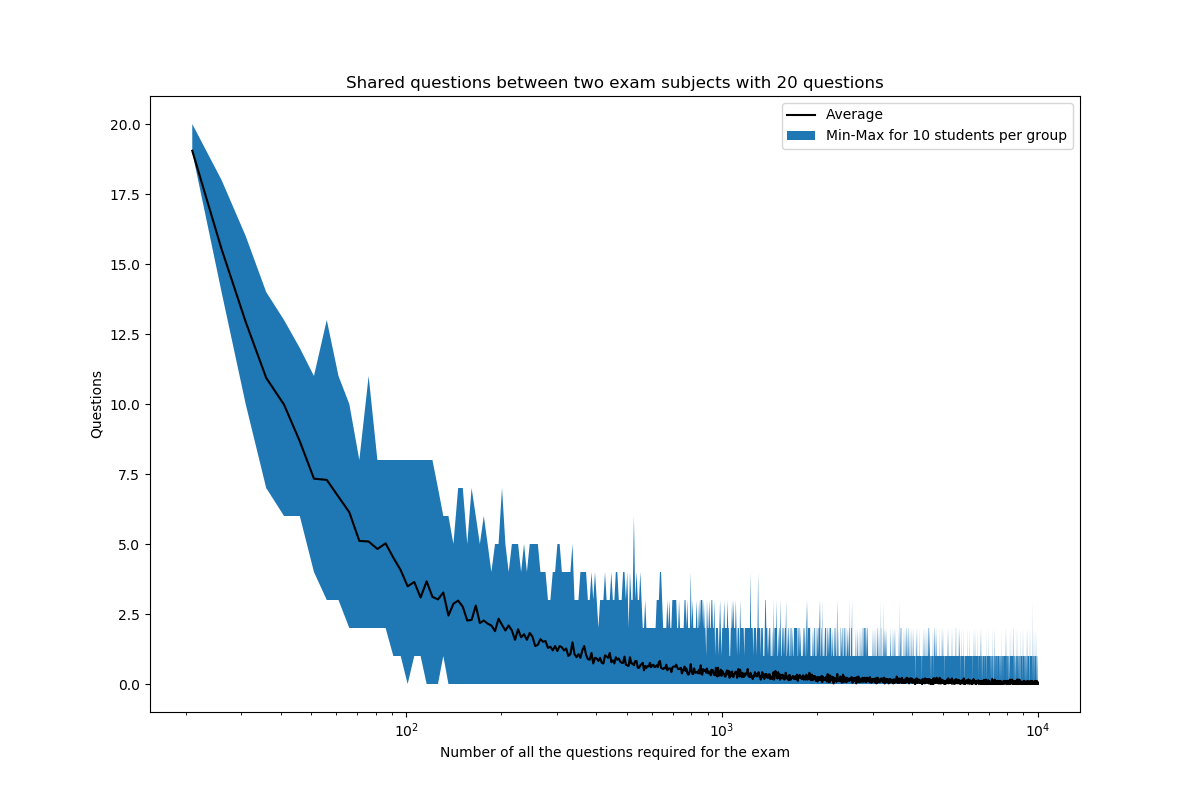
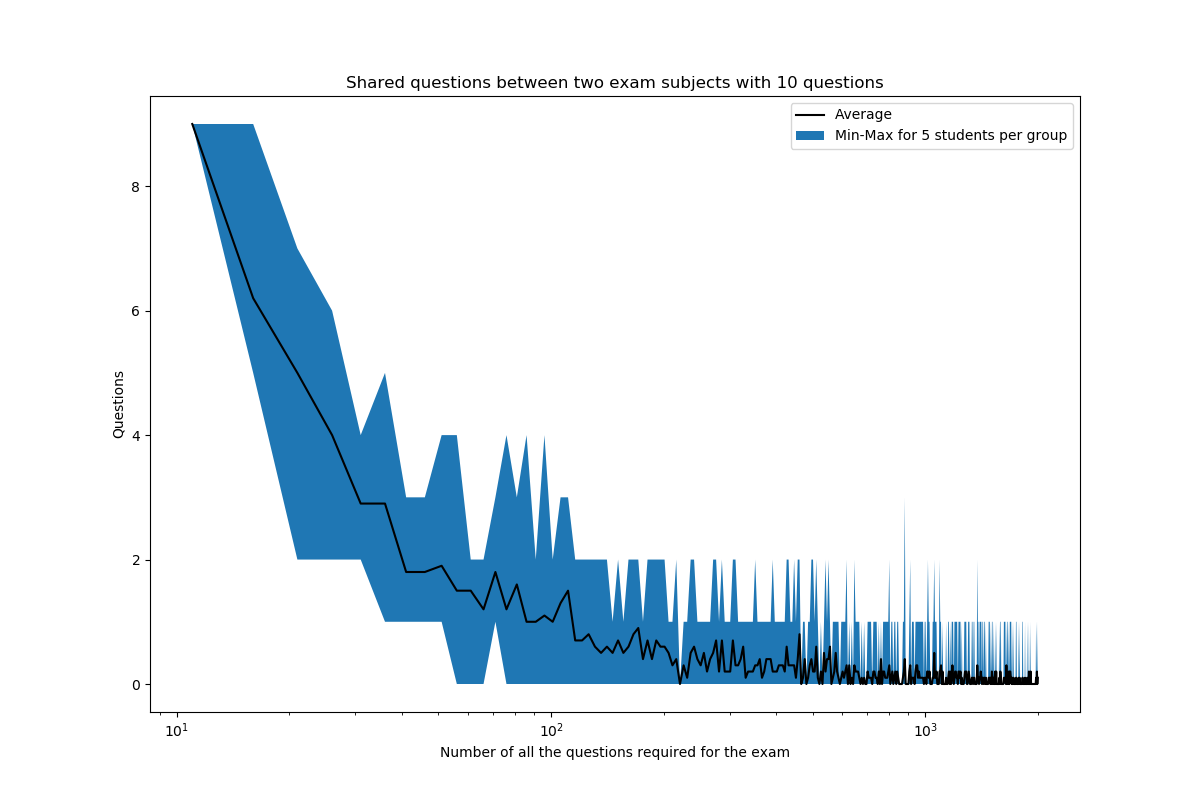
Cosmetic changes

diff --git a/scriptSimus.py b/scriptSimus.py
@@ -1,72 +1,105 @@
 import numpy as np
 import matplotlib.pyplot as plt
 
-# Fixed Parameters
-nbQuestionsPerStudent = 20
-nbStudents = 500
-nbStudentsPerGroup = 10
+#########################################
+#                                       #
+# Simulations and Distances computation #
+#                                       #
+#########################################
 
-nbQuestions = np.arange(nbQuestionsPerStudent+1,nbStudents*nbQuestionsPerStudent,5)
+def mainSimulation(params):
+    (nbQuestionsPerStudent,nbStudents,nbStudentsPerGroup)=params
+    nbQuestions = np.arange(nbQuestionsPerStudent+1,nbStudents*nbQuestionsPerStudent,5)
 
-meanPWDistances=np.zeros((len(nbQuestions),))
-minmaxPWDistances=np.zeros((len(nbQuestions),2))
-meanDistances=np.zeros((len(nbQuestions),))
-minmaxDistances=np.zeros((len(nbQuestions),2))
-cpt=0
-for n in nbQuestions:
-    # Generate nbQuestions random partitions of the set {0,n}
-    randperm = np.zeros((nbQuestionsPerStudent,nbStudentsPerGroup))
-    for i in range(nbStudentsPerGroup):
-        randperm[:,i]=np.random.permutation(n)[0:nbQuestionsPerStudent]
-    # Compute all pairwise distances between partitions (edit distance)
-    distance=[]
-    unionOfIntersect=[]
-    for i in range(nbStudentsPerGroup):
-        for j in range(nbStudentsPerGroup):
-            if i<j:
-                unionOfIntersect.append(np.intersect1d(randperm[:,i],randperm[:,j]))
-                dist=len(np.intersect1d(randperm[:,i],randperm[:,j]))
-                distance.append(dist)
-    meanPWDistances[cpt]=np.mean(np.array(distance))
-    minmaxPWDistances[cpt,0]=np.min(np.array(distance))
-    minmaxPWDistances[cpt,1]=np.max(np.array(distance))
-    # Union of all questions => diff between individual questions and union
-    union=np.unique(randperm.flatten())
-    distance=[]
-    unionOfIntersect=np.unique(np.concatenate(unionOfIntersect))
-    for i in range(nbStudentsPerGroup):
-        dist=len(np.setdiff1d(randperm[:,i],unionOfIntersect))
-        distance.append(dist)
-    meanDistances[cpt]=np.mean(np.array(distance))
-    minmaxDistances[cpt,0]=np.min(np.array(distance))
-    minmaxDistances[cpt,1]=np.max(np.array(distance))
-    cpt=cpt+1
-    print(n)
+    meanPWDistances=np.zeros((len(nbQuestions),))
+    minmaxPWDistances=np.zeros((len(nbQuestions),2))
+    meanDistances=np.zeros((len(nbQuestions),))
+    minmaxDistances=np.zeros((len(nbQuestions),2))
+    cpt=0
+    for n in nbQuestions:
 
+        # Generate nbQuestions random partitions of the set {0,n}
+        randperm = np.zeros((nbQuestionsPerStudent,nbStudentsPerGroup))
+        for i in range(nbStudentsPerGroup):
+            randperm[:,i]=np.random.permutation(n)[0:nbQuestionsPerStudent]
 
-plt.figure(figsize=(12,8))
-plt.semilogx(nbQuestions,meanPWDistances,'k-')
-plt.fill_between(nbQuestions,minmaxPWDistances[:,0],minmaxPWDistances[:,1])
-plt.xlabel('Number of all the questions required for the exam')
-plt.ylabel('Questions')
-plt.legend(['Average','Min-Max for '+str(nbStudentsPerGroup)+' students per group'])
-plt.title('Shared questions between two exam subjects with ' + str(nbQuestionsPerStudent) + ' questions')
+        # Compute all pairwise distances between partitions (edit distance)
+        distance=[]
+        unionOfIntersect=[]
+        for i in range(nbStudentsPerGroup):
+            for j in range(nbStudentsPerGroup):
+                if i<j:
+                    unionOfIntersect.append(np.intersect1d(randperm[:,i],randperm[:,j]))
+                    dist=len(np.intersect1d(randperm[:,i],randperm[:,j]))
+                    distance.append(dist)
+        meanPWDistances[cpt]=np.mean(np.array(distance))
+        minmaxPWDistances[cpt,0]=np.min(np.array(distance))
+        minmaxPWDistances[cpt,1]=np.max(np.array(distance))
 
-plt.savefig("Figure1.png")
+        # Union of all questions => diff between individual questions and union
+        union=np.unique(randperm.flatten())
+        distance=[]
+        unionOfIntersect=np.unique(np.concatenate(unionOfIntersect))
+        for i in range(nbStudentsPerGroup):
+            dist=len(np.setdiff1d(randperm[:,i],unionOfIntersect))
+            distance.append(dist)
+        meanDistances[cpt]=np.mean(np.array(distance))
+        minmaxDistances[cpt,0]=np.min(np.array(distance))
+        minmaxDistances[cpt,1]=np.max(np.array(distance))
+        cpt=cpt+1
+    return (meanPWDistances,minmaxPWDistances,meanDistances,minmaxDistances,nbQuestions)
 
-plt.figure(figsize=(12,8))
-plt.semilogx(nbQuestions,nbQuestionsPerStudent-meanDistances,'k-')
-plt.fill_between(nbQuestions,nbQuestionsPerStudent-minmaxDistances[:,0],nbQuestionsPerStudent-minmaxDistances[:,1])
-plt.xlabel('Number of all the questions required for the exam')
-plt.ylabel('Questions' )
-plt.legend(['Average','Min-Max for '+str(nbStudentsPerGroup)+' students per group'])
-plt.title('Questions among ' + str(nbQuestionsPerStudent) + ' shared in a group of '+str(nbStudentsPerGroup)+' students')
+#################
+#               #
+# Visualization #
+#               #
+#################
 
-plt.savefig("Figure2.png")
+def vizu(nbQuestions,meanPWDistances,minmaxPWDistances,meanDistances,minmaxDistances,params):
+    (nbQuestionsPerStudent,nbStudents,nbStudentsPerGroup)=params
 
-plt.figure(figsize=(12,8))
-plt.semilogx(nbQuestions,meanPWDistances,'r-')
-plt.semilogx(nbQuestions,nbQuestionsPerStudent-meanDistances,'b-')
-plt.legend(['Shared questions between two exam subjects','Questions shared in a group of '+str(nbStudentsPerGroup)+' students'])
+    plt.figure(figsize=(12,8))
+    plt.semilogx(nbQuestions,meanPWDistances,'k-')
+    plt.fill_between(nbQuestions,minmaxPWDistances[:,0],minmaxPWDistances[:,1])
+    plt.xlabel('Number of all the questions required for the exam')
+    plt.ylabel('Questions')
+    plt.legend(['Average','Min-Max for '+str(nbStudentsPerGroup)+' students per group'])
+    plt.title('Shared questions between two exam subjects with ' + str(nbQuestionsPerStudent) + ' questions')
+    plt.savefig("Figure1.png")
+    plt.show()
 
-plt.savefig("Figure3.png")
+    plt.figure(figsize=(12,8))
+    plt.semilogx(nbQuestions,nbQuestionsPerStudent-meanDistances,'k-')
+    plt.fill_between(nbQuestions,nbQuestionsPerStudent-minmaxDistances[:,0],nbQuestionsPerStudent-minmaxDistances[:,1])
+    plt.xlabel('Number of all the questions required for the exam')
+    plt.ylabel('Questions' )
+    plt.legend(['Average','Min-Max for '+str(nbStudentsPerGroup)+' students per group'])
+    plt.title('Questions among ' + str(nbQuestionsPerStudent) + ' shared in a group of '+str(nbStudentsPerGroup)+' students')
+    plt.savefig("Figure2.png")
+    plt.show()
+
+    plt.figure(figsize=(12,8))
+    plt.semilogx(nbQuestions,meanPWDistances,'r-')
+    plt.semilogx(nbQuestions,nbQuestionsPerStudent-meanDistances,'b-')
+    plt.legend(['Shared questions between two exam subjects','Questions shared in a group of '+str(nbStudentsPerGroup)+' students'])
+    plt.savefig("Figure3.png")
+    plt.show()
+
+########
+#      #
+# Main #
+#      #
+########
+
+if __name__ == '__main__':
+    print('Number of students: \n')
+    nbStudents=input()
+    print('\n Number of questions: \n')
+    nbQuestionsPerStudent=input()
+    print('\n Number of students per group')
+    nbStudentsPerGroup=input()
+    params=(int(nbQuestionsPerStudent),int(nbStudents),int(nbStudentsPerGroup))
+
+    (meanPWDistances,minmaxPWDistances,meanDistances,minmaxDistances,nbQuestions)=mainSimulation(params)
+    vizu(nbQuestions,meanPWDistances,minmaxPWDistances,meanDistances,minmaxDistances,params)
+
